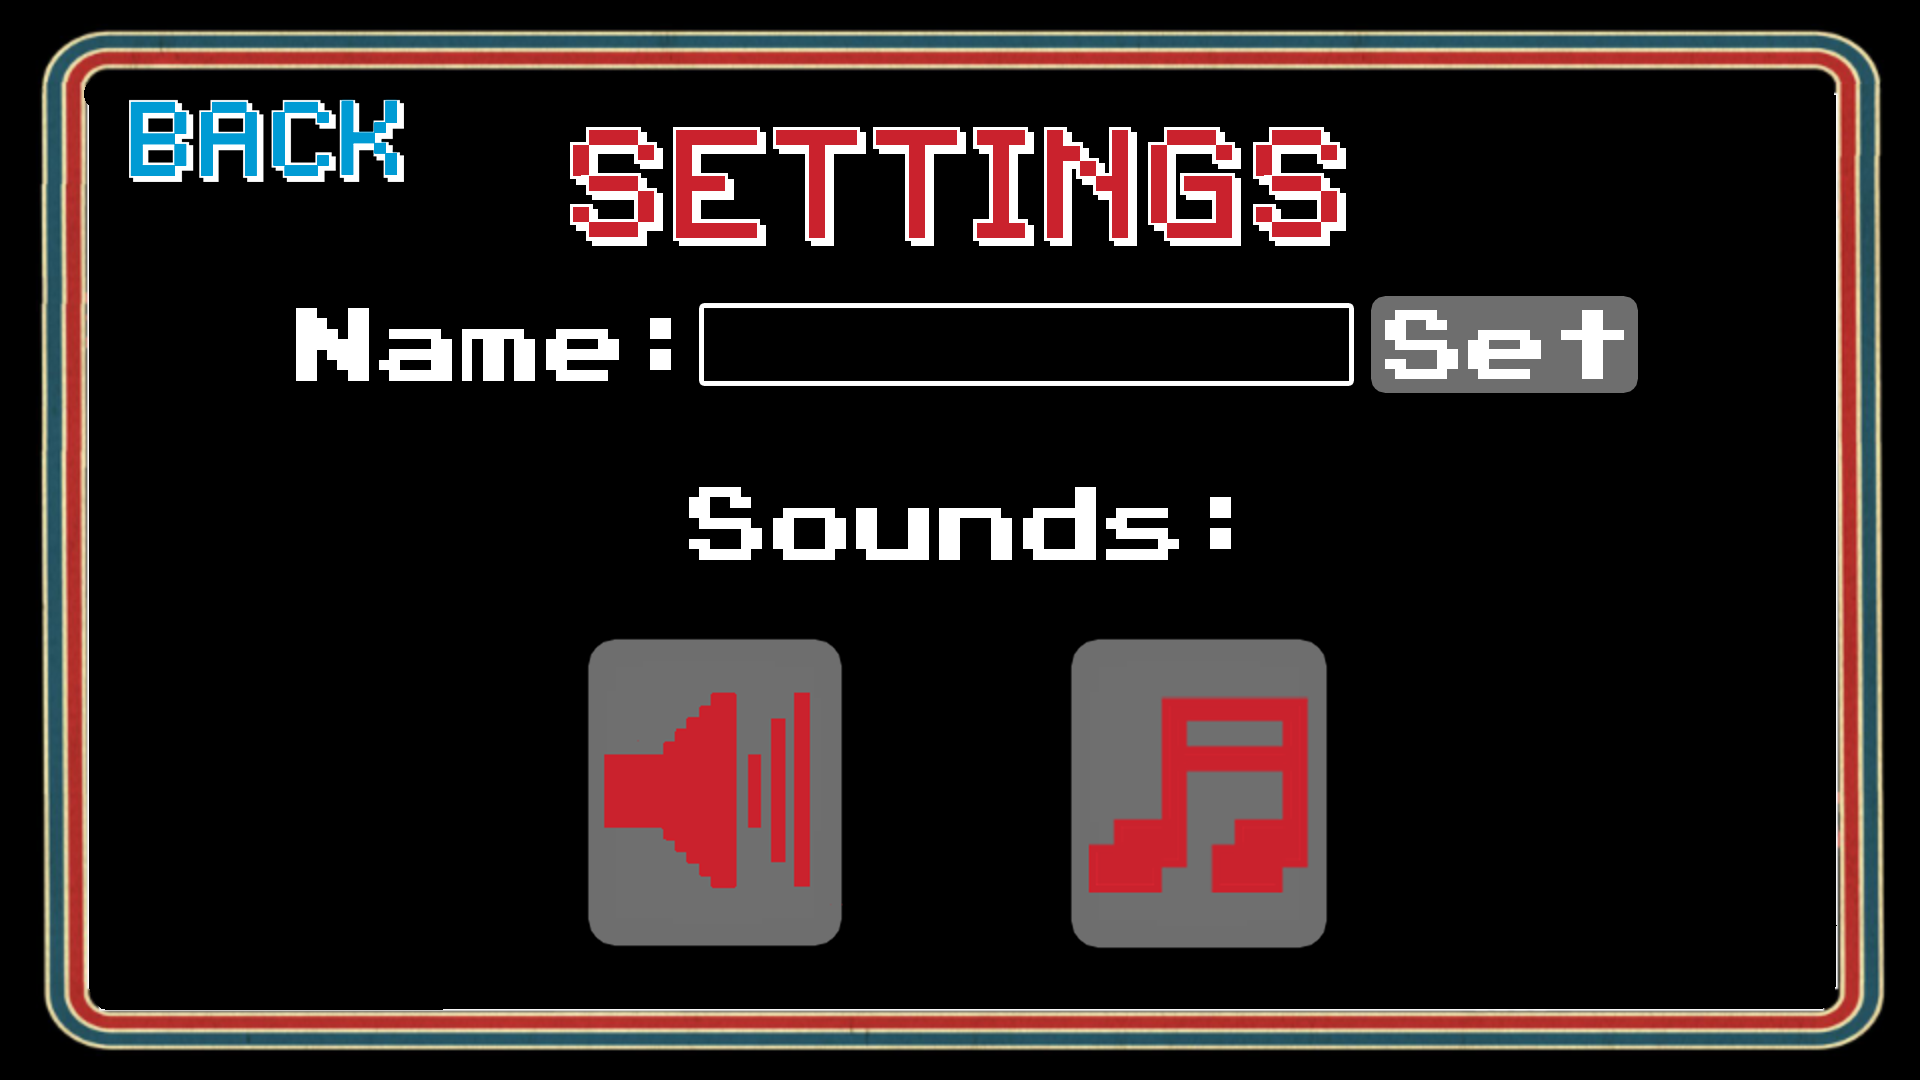
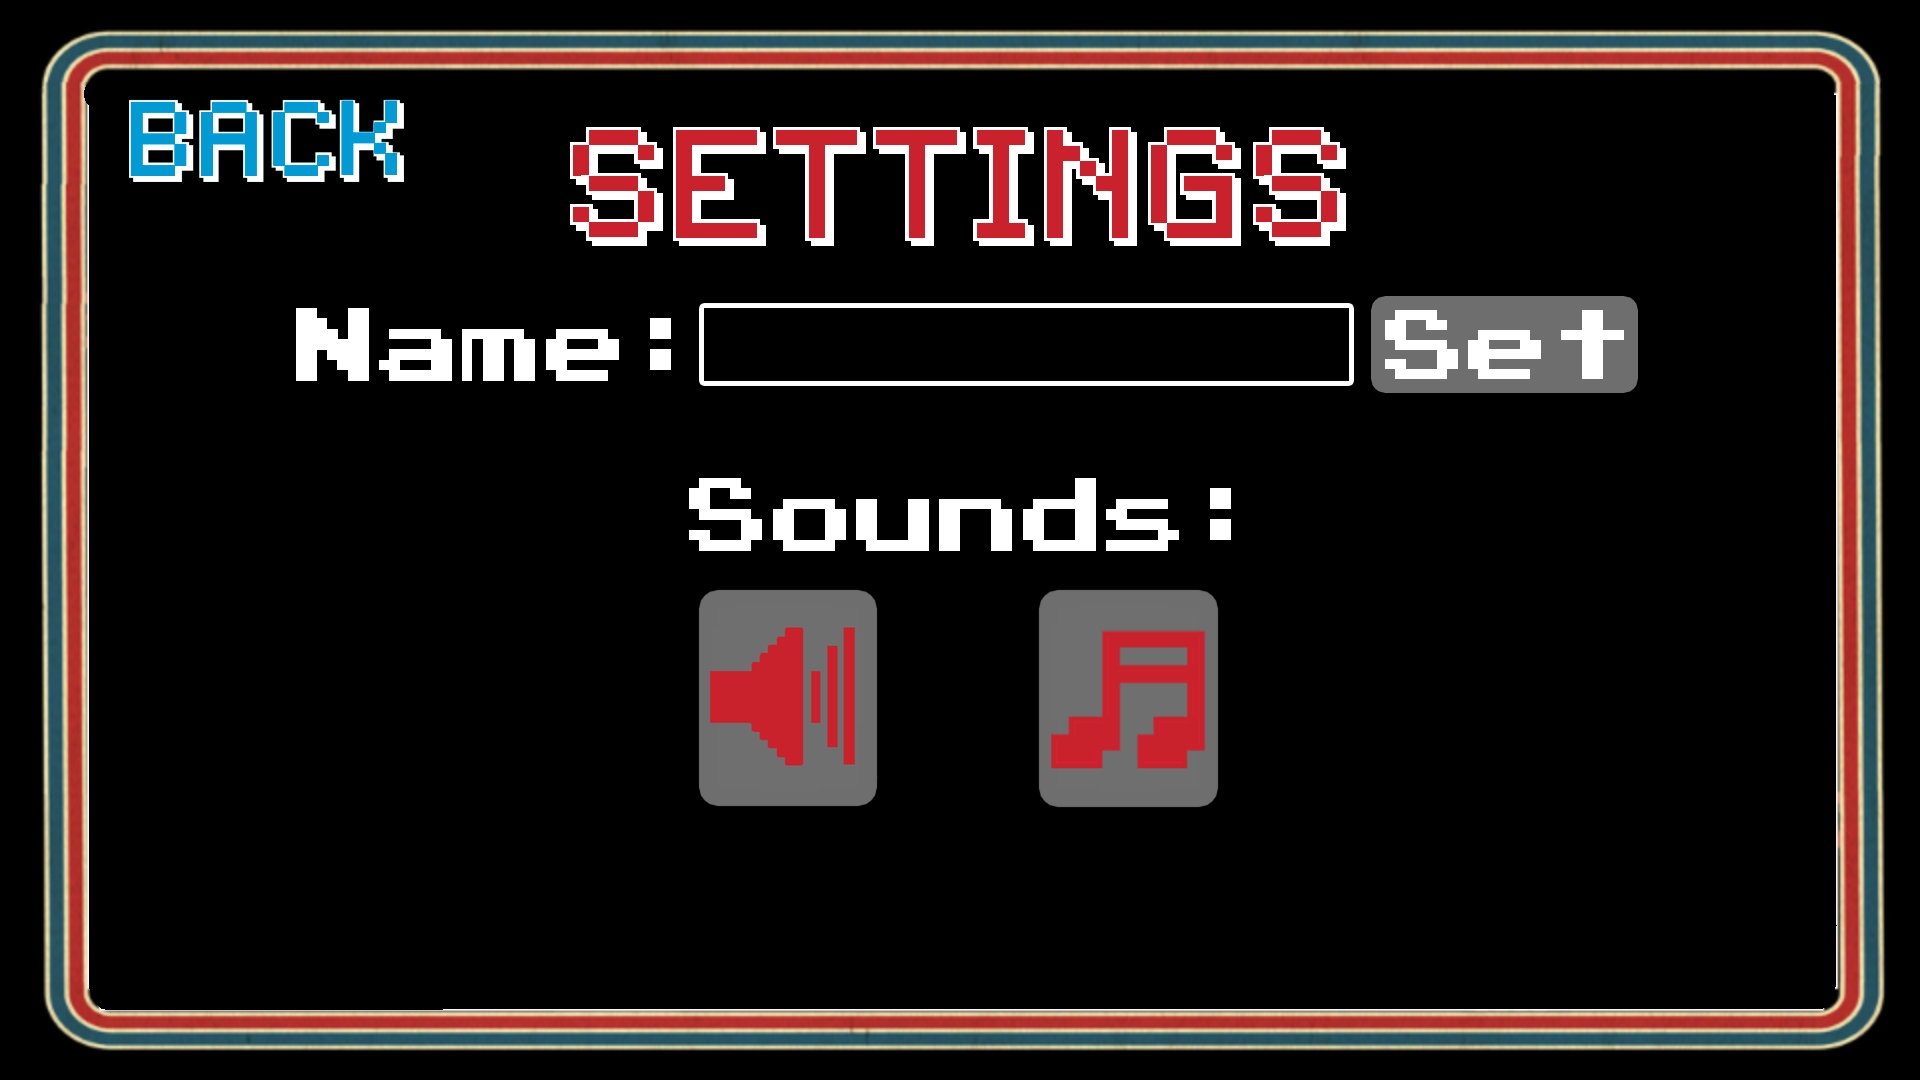
buttons fixed and mute

Changed region(s): [[0.2812, 0.4278, 0.7188, 0.8861]]

diff --git a/settings.html b/settings.html
@@ -2,233 +2,213 @@
 <html>
 
 <head>
-  <meta name="viewport" content="width=device-width, initial-scale=1.0, user-scalable=no">
-  <link rel="stylesheet" type="text/css" href="style.css">
+    <meta name="viewport" content="width=device-width, initial-scale=1.0, user-scalable=no">
+    <link rel="stylesheet" type="text/css" href="style.css">
 </head>
 
 <body onload="init()" id="script">
-  <canvas id='c' style='position: absolute; left: 0px; top: 0px; z-index: 2;'></canvas>
-  <!-- <canvas id="textbox" width="644" height="73"></canvas> -->
-  <script src="js/CanvasInput.js"></script>
-  <script src="https://www.gstatic.com/firebasejs/4.11.0/firebase.js"></script>
-  <script src="https://unpkg.com/lodash"></script>
-  <script src="js/leaderboard.js"></script>
-  <script>
+    <canvas id='c' style='position: absolute; left: 0px; top: 0px; z-index: 2;'></canvas>
+    <!-- <canvas id="textbox" width="644" height="73"></canvas> -->
+    <script src="js/CanvasInput.js"></script>
+    <script src="https://www.gstatic.com/firebasejs/4.11.0/firebase.js"></script>
+    <script src="https://unpkg.com/lodash"></script>
+    <script src="js/leaderboard.js"></script>
+    <script>
     var mute = localStorage.getItem('muteState') || "no";
     var musicMute = localStorage.getItem('musicMuteState') || "no";
     var music = new Audio("sounds/Further_Away.mp3"); // buffers automatically when created
     if (mute === "yes") {
-      music.pause();
+        music.pause();
     } else if (mute === "no" && musicMute === "no") {
-      music.loop = true;
-      music.play();
+        music.loop = true;
+        music.play();
     }
 
     var inputType = 1;
     var input = new CanvasInput({
-      canvas: document.getElementById('c'),
-      x: 702 / 1920 * window.innerWidth,
-      y: 305 / 1080 * window.innerHeight,
-      fontSize: 85 / 1080 * window.innerHeight,
-      fontFamily: 'Escapists',
-      fontColor: '#212121',
-      width: 645 / 1920 * window.innerWidth,
-      height: 70 / 1080 * window.innerHeight,
-      padding: 0,
-      borderWidth: 1,
-      borderColor: 'black',
-      borderRadius: 2,
-      boxShadow: '1px 1px 0px #fff',
-      innerShadow: '0px 0px 5px rgba(0, 0, 0, 0.5)',
-      placeHolder: localStorage.getItem('name')
+        canvas: document.getElementById('c'),
+        x: 702 / 1920 * window.innerWidth,
+        y: 305 / 1080 * window.innerHeight,
+        fontSize: 94 / 1080 * window.innerHeight,
+        fontFamily: 'Escapists',
+        fontColor: '#212121',
+        width: 645 / 1920 * window.innerWidth,
+        height: 70 / 1080 * window.innerHeight,
+        padding: 0,
+        borderWidth: 1,
+        borderColor: 'black',
+        borderRadius: 2,
+        boxShadow: '1px 1px 0px #fff',
+        innerShadow: '0px 0px 5px rgba(0, 0, 0, 0.5)',
+        placeHolder: localStorage.getItem('name')
     });
     var maxNameLength = 15;
 
     var backgroundImage = new Image();
     var ctx;
     var buttons = [];
+    var pic = "images/Pages/settings.png";
 
     function draw(type) {
-      var canvas = document.getElementById("c");
-      canvas.width = window.innerWidth;
-      canvas.height = window.innerHeight;
-      // var mutePic = new Image();
-      // mutePic.src = "images/Buttons/muted.png"
-      // var musicMutePic = new Image();
-      // playerBoosterPic.src = "images/Buttons/music_muted.png"
-      ctx = canvas.getContext("2d");
-      backgroundImage.src = "images/Pages/settings.png";
-      backgroundImage.onload = function() {
-        ctx.drawImage(backgroundImage, 0, 0, canvas.width, canvas.height);
-      } 
-      setTimeout(function() {
-        input.render();
-      }, 400);
+        var canvas = document.getElementById("c");
+        canvas.width = window.innerWidth;
+        canvas.height = window.innerHeight;
+        // var mutePic = new Image();
+        // mutePic.src = "images/Buttons/muted.png"
+        // var musicMutePic = new Image();
+        // playerBoosterPic.src = "images/Buttons/music_muted.png"
+        ctx = canvas.getContext("2d");
+        backgroundImage.src = pic;
+        backgroundImage.onload = function() {
+            ctx.drawImage(backgroundImage, 0, 0, canvas.width, canvas.height);
+        }
+        setTimeout(function() {
+            input.render();
+        }, 400);
     }
 
     if (inputType == 0) {
-      input.blur();
-      name = input.value();
-      input._x = -200000000;
-      input.destroy();
+        input.blur();
+        name = input.value();
+        input._x = -200000000;
+        input.destroy();
     }
 
     function setName() {
-      console.log("set name clicked")
-      if (input.value().length <= maxNameLength && input.value().length != 0) { //LIMIT Name length
-        console.log("acceptable name")
-        localStorage.setItem('name', input.value());
-        writeScore(localStorage.getItem('highScore') || 0, localStorage.getItem('name'));
-        if (localStorage.getItem('highScore') === null) {
-          localStorage.setItem('highScore', 0);
+        console.log("set name clicked")
+        if (input.value().length <= maxNameLength && input.value().length != 0) { //LIMIT Name length
+            console.log("acceptable name")
+            localStorage.setItem('name', input.value());
+            writeScore(localStorage.getItem('highScore') || 0, localStorage.getItem('name'));
+            if (localStorage.getItem('highScore') === null) {
+                localStorage.setItem('highScore', 0);
+            }
+            location.reload(200000);
+            // input._x = -200000000;
+        } else {
+            // input.blur();
+            location.reload();
+            input.destroy();
         }
-        location.reload(200000);
-        // input._x = -200000000;
-      } else {
-        // input.blur();
-        location.reload();
-        input.destroy();
-      }
     };
 
 
     function muteMute() {
-      if (mute === "no") {
-        mute = "yes";
-        // music.play();
-        music.pause();
-        changeMuteState();
-      } else {
-        mute = "no";
-        music.loop = true;
-        music.play();
-        changeMuteState();
-      }
-      updatePauseButtons();
+        if (mute === "no") {
+            mute = "yes";
+            // music.play();
+            music.pause();
+            changeMuteState();
+        } else {
+            mute = "no";
+            music.loop = true;
+            music.play();
+            changeMuteState();
+        }
+        updatePauseButtons();
     }
 
 
     function musicMute() {
-      if (musicMute === "no") {
-        musicMute = "yes";
-        music.pause();
-        changeMusicMuteState();
-      } else {
-        musicMute = "no";
-        if (mute === "no") {
-          music.loop = true;
-          music.play();
+        if (musicMute === "no") {
+            musicMute = "yes";
+            music.pause();
+            changeMusicMuteState();
+        } else {
+            musicMute = "no";
+            if (mute === "no") {
+                music.loop = true;
+                music.play();
+            }
+            changeMusicMuteState();
         }
-        changeMusicMuteState();
-      }
-      updatePauseButtons();
+        updatePauseButtons();
     }
 
     function changeMuteState() {
-      if (mute === "yes") {
-        // TODO add mute
-        localStorage.setItem('muteState', "yes");
-      } else if (mute === "no") {
-        // TODO add mute
-        localStorage.setItem('muteState', "no");
-      }
+        if (mute === "yes") {
+            pic = "images/Pages/settings_muteMute.png"
+            localStorage.setItem('muteState', "yes");
+        } else if (mute === "no") {
+            pic = "images/Pages/settings.png"
+            localStorage.setItem('muteState', "no");
+        }
+        draw();
     }
 
     function changeMusicMuteState() {
-      if (musicMute === "yes") {
-        // TODO add mute
-        localStorage.setItem('musicMuteState', "yes");
-      } else if (musicMute === "no") {
-        // TODO add mute
-        localStorage.setItem('musicMuteState', "no");
-      }
+        if (musicMute === "yes") {
+            pic = "images/Pages/settings_musicMute.png"
+            localStorage.setItem('musicMuteState', "yes");
+        } else if (musicMute === "no") {
+            pic = "images/Pages/settings.png"
+            localStorage.setItem('musicMuteState', "no");
+        }
+        draw();
     }
 
-    function updatePauseButtons() {
-      var canvas = document.getElementById("c");
-      canvas.width = window.innerWidth;
-      canvas.height = window.innerHeight;
-      ctx = canvas.getContext("2d");
-      var mutePic = new Image();
-      mutePic.src = "images/Buttons/muted.png"
-      var musicMutePic = new Image();
-      musicMutePic.src = "images/Buttons/music_muted.png"
-      console.log("drawing");
-      draw();
-      if (mute === "yes") {
-        ctx.drawImage(mutePic, canvas.width * 588 / 1920,
-          639 / 1080 * canvas.height,
-          canvas.width * 254 / 1920,
-          canvas.height * 307 / 1080);
-      }
-      if (musicMute === "yes") {
-        ctx.drawImage(musicMutePic, canvas.width * 1071 / 1920,
-          639 / 1080 * canvas.height,
-          canvas.width * 256 / 1920,
-          canvas.height * 307 / 1080);
-      }
-    }
+
 
     function backToAbout() {
-      if (mute === "no") {
-        var navBack_snd = new Audio("sounds/navigateBack.wav"); // buffers automatically when created
-        navBack_snd.play();
-        navBack_snd.onended = function() {
-          window.location = "menu.html";
-        }
-      } else {
-        window.location = "menu.html";
-      };
+        if (mute === "no") {
+            var navBack_snd = new Audio("sounds/navigateBack.wav"); // buffers automatically when created
+            navBack_snd.play();
+            navBack_snd.onended = function() {
+                window.location = "menu.html";
+            }
+        } else {
+            window.location = "menu.html";
+        };
     }
 
     function addButton(x1, y1, x2, y2, callback, param) {
-      buttons.push({
-        x1: x1,
-        y1: y1,
-        x2: x2,
-        y2: y2,
-        callback: callback,
-        param: param
-      });
+        buttons.push({
+            x1: x1,
+            y1: y1,
+            x2: x2,
+            y2: y2,
+            callback: callback,
+            param: param
+        });
     }
 
     function setButtons() {
-      var canvasWidth = window.innerWidth;
-      var canvasHeight = window.innerHeight;
-      addButton(132 / 1920 * canvasWidth, 110 / 1080 * canvasHeight, 413 / 1920 * canvasWidth, 193 / 1080 * canvasHeight, backToAbout);
-      addButton(586 / 1920 * canvasWidth, 638 / 1080 * canvasHeight, 843 / 1920 * canvasWidth, 945 / 1080 * canvasHeight, muteMute);
-      addButton(1070 / 1920 * canvasWidth, 638 / 1080 * canvasHeight, 1326 / 1920 * canvasWidth, 945 / 1080 * canvasHeight, musicMute);
-      addButton(1369 / 1920 * canvasWidth, 295 / 1080 * canvasHeight, 1640 / 1920 * canvasWidth, 392 / 1080 * canvasHeight, setName);
+        var canvasWidth = window.innerWidth;
+        var canvasHeight = window.innerHeight;
+        addButton(132 / 1920 * canvasWidth, 110 / 1080 * canvasHeight, 413 / 1920 * canvasWidth, 193 / 1080 * canvasHeight, backToAbout);
+        addButton(694 / 1920 * canvasWidth, 591 / 1080 * canvasHeight, 874 / 1920 * canvasWidth, 808 / 1080 * canvasHeight, muteMute);
+        addButton(1042 / 1920 * canvasWidth, 588 / 1080 * canvasHeight, 1326 / 1920 * canvasWidth, 945 / 1080 * canvasHeight, musicMute);
+        addButton(1369 / 1920 * canvasWidth, 295 / 1080 * canvasHeight, 1640 / 1920 * canvasWidth, 392 / 1080 * canvasHeight, setName);
 
-      // addButton(103 / 1920 * canvasWidth, 674 / 1080 * canvasHeight, 1640 / 1920 * canvasWidth, 392 / 1080 * canvasHeight, name);
+        // addButton(103 / 1920 * canvasWidth, 674 / 1080 * canvasHeight, 1640 / 1920 * canvasWidth, 392 / 1080 * canvasHeight, name);
     }
 
     function touches(evt) {
-      var x = evt.changedTouches[0].pageX;
-      var y = evt.changedTouches[0].pageY;
-      checkButtons(x, y);
+        var x = evt.changedTouches[0].pageX;
+        var y = evt.changedTouches[0].pageY;
+        checkButtons(x, y);
     }
 
     function clicks(evt) {
-      var x = evt.clientX;
-      var y = evt.clientY;
-      checkButtons(x, y);
+        var x = evt.clientX;
+        var y = evt.clientY;
+        checkButtons(x, y);
     }
 
     function checkButtons(x, y) {
-      for (var i = 0; i < buttons.length; i++) {
-        var b = buttons[i];
-        if (x > b.x1 && x < b.x2 && y > b.y1 && y < b.y2) {
-          b.callback();
+        for (var i = 0; i < buttons.length; i++) {
+            var b = buttons[i];
+            if (x > b.x1 && x < b.x2 && y > b.y1 && y < b.y2) {
+                b.callback();
+            }
         }
-      }
     }
 
     function init() {
-      draw();
-      setButtons();
-      window.addEventListener('touchstart', touches);
-      window.addEventListener('click', clicks);
+        draw();
+        setButtons();
+        window.addEventListener('touchstart', touches);
+        window.addEventListener('click', clicks);
     }
 
     // function checkButtons(evt) {
@@ -247,7 +227,7 @@
     //   setButtons();
     //   window.addEventListener('touchstart', checkButtons);
     // }
-  </script>
+    </script>
 </body>
 
 </html>
